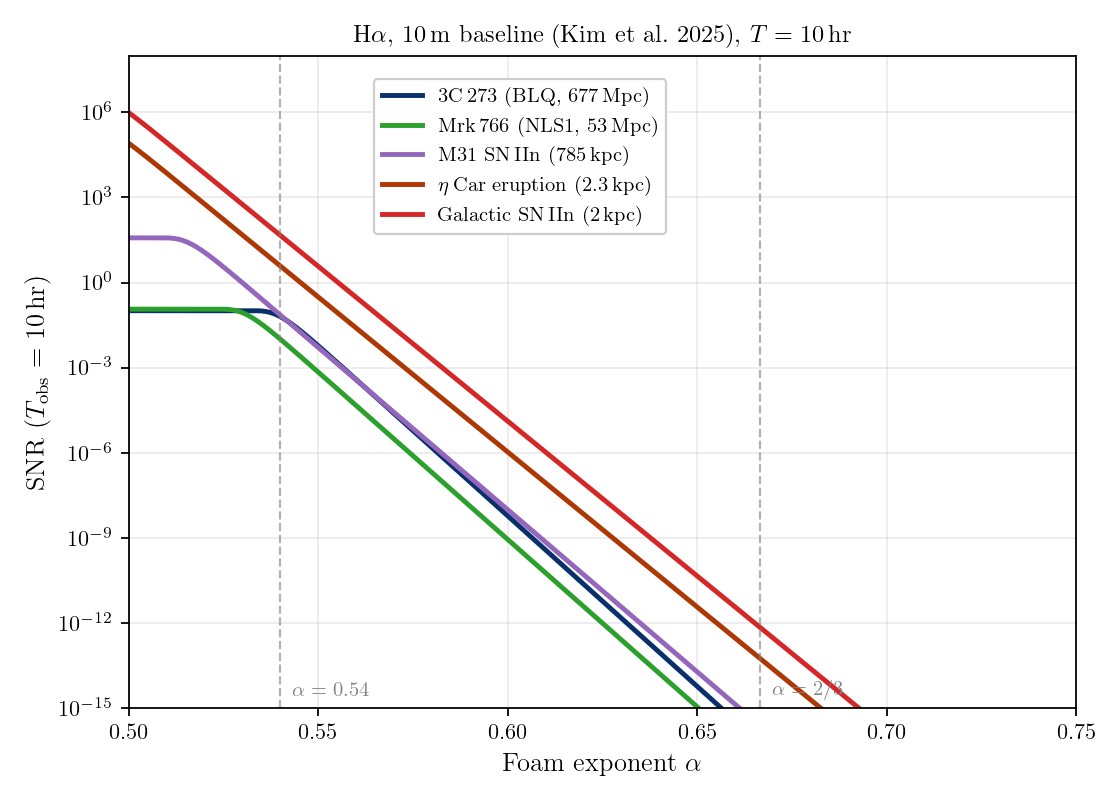
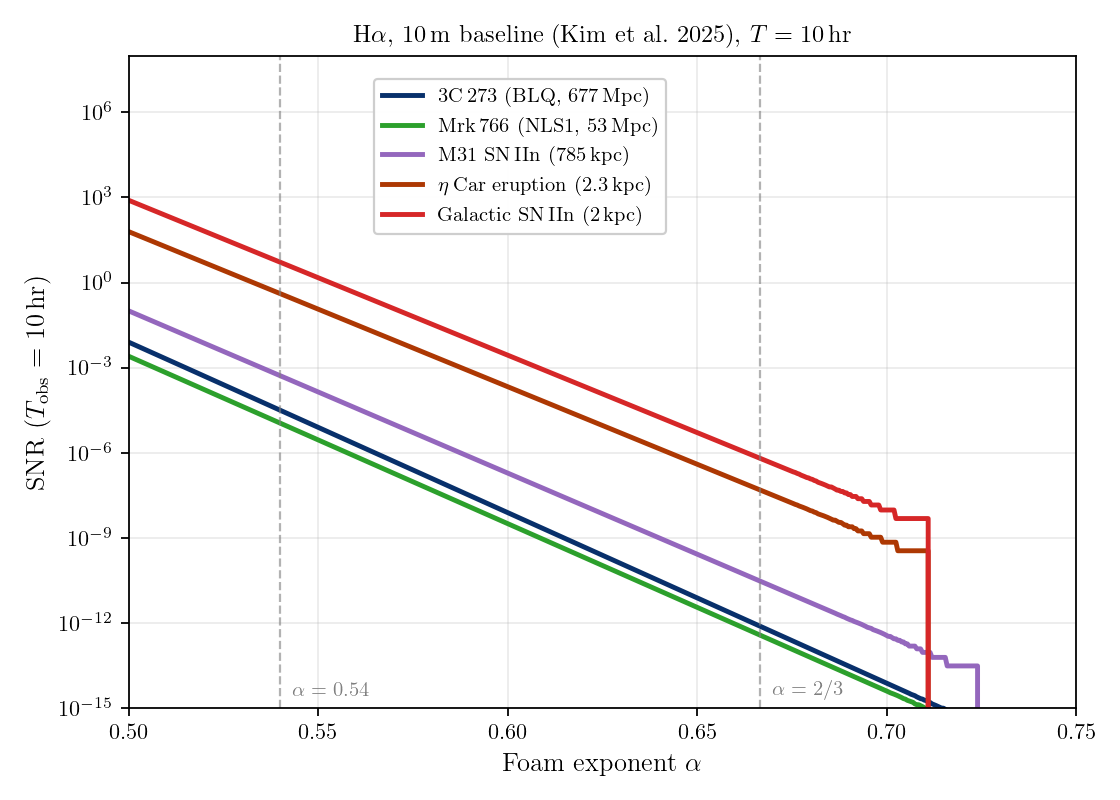
paper.tex, snr_vs_alpha: expand HBT motivation; refine §VII preamble; regenerate figure
- §VII preamble: drop σ_{φ,min} caveat; tighten to Φ_eff≈0 for these extended sources
- §VII A: replace thin HBT-motivation paragraph with detailed explanation of
  why HBT is required (detector dead time, afterpulsing, split-beam geometry)
- Regenerate snr_vs_alpha.pdf/png with updated |S(0)| signal formula

Changed region(s): [[0.0938, 0.1562, 0.875, 0.9062], [0.7188, 0.75, 0.7812, 0.7812]]

diff --git a/docs/paper.tex b/docs/paper.tex
@@ -1245,18 +1245,12 @@ Lorentzian line profile throughout, which we adopt as the default for the
 broad and narrow permitted lines considered here; deviations from a pure
 Lorentzian (e.g., a Voigt core) modify the photon-rate fraction
 through the threshold filter and the cusp structure of $g^{(2)}_{\rm src}$
-at zero lag, changing $\sigma_{\phi,\rm min}$ by factors of order unity
-(cf.\ Sections~\ref{sec:g1} and \ref{sec:zerolag}).
-All these targets are physically large and are thus extended sources, even though they are difficult to resolve from Earth; as extended sources, they are sensitive to spacetime foam whose transverse coherence length satisfies $r_\perp \lesssim D\,\Delta\theta$ (equivalently $\Phi_{\rm eff} < 1$), through the cross-ray differential jitter mechanism.
+at zero lag.
+All these targets are physically large and are thus extended sources, even though they are difficult to resolve from Earth; as extended sources, they are sensitive to spacetime foam whose transverse coherence length satisfies $r_\perp \lesssim D\,\Delta\theta$ (equivalently $\Phi_{\rm eff} \approx 0$), through the cross-ray differential jitter mechanism.
 
 \subsection{Sensitivity and Aperture Scaling}
 \label{sec:snr_scaling}
-
-Measuring $\mathcal{S}(0)$ is most naturally done via the Hanbury Brown--Twiss
-(HBT) effect~\cite{HBT1956}.
-While a direct photon arrival-time experiment would be more statistically efficient,
-HBT has important systematic advantages: it requires no phase-stable optical
-path between telescopes and is immune to atmospheric phase fluctuations.
+Measuring $\mathcal{S}(0)$ requires resolving the bunching peak of $g^{(2)}_{\rm obs}(\tau)$ near $\tau = 0$, where $\tau \sim \tau_c$ is of order picoseconds. A single-detector autocorrelation cannot access this regime: detector dead time (tens of ns for SPADs, $\sim$1\,ns for SNSPDs) blinds the instrument to precisely the coincidences that build the bunching peak. The Hanbury Brown--Twiss configuration~\cite{HBT1956} circumvents this by splitting the beam onto two independent detectors and forming the cross-correlation $\langle I_A(t)\, I_B(t+\tau)\rangle$: the two photons of a near-coincident pair are routed to detectors with statistically independent dead times, recovering access to lags $\tau \ll \tau_d$. The split-beam geometry also suppresses afterpulsing artifacts (which would mimic a foam-induced deficit), halves the per-detector rate to extend the linear counting regime, and rejects correlated electronic and time-tagger artifacts as common mode --- the reasons essentially all modern photon-counting $g^{(2)}$ measurements use this geometry, which we adopt as the baseline configuration throughout.
 
 The HBT observable is $g^{(2)}_{\rm obs}(0)$, whose foam-free value for a thermal
 source is $2$.
